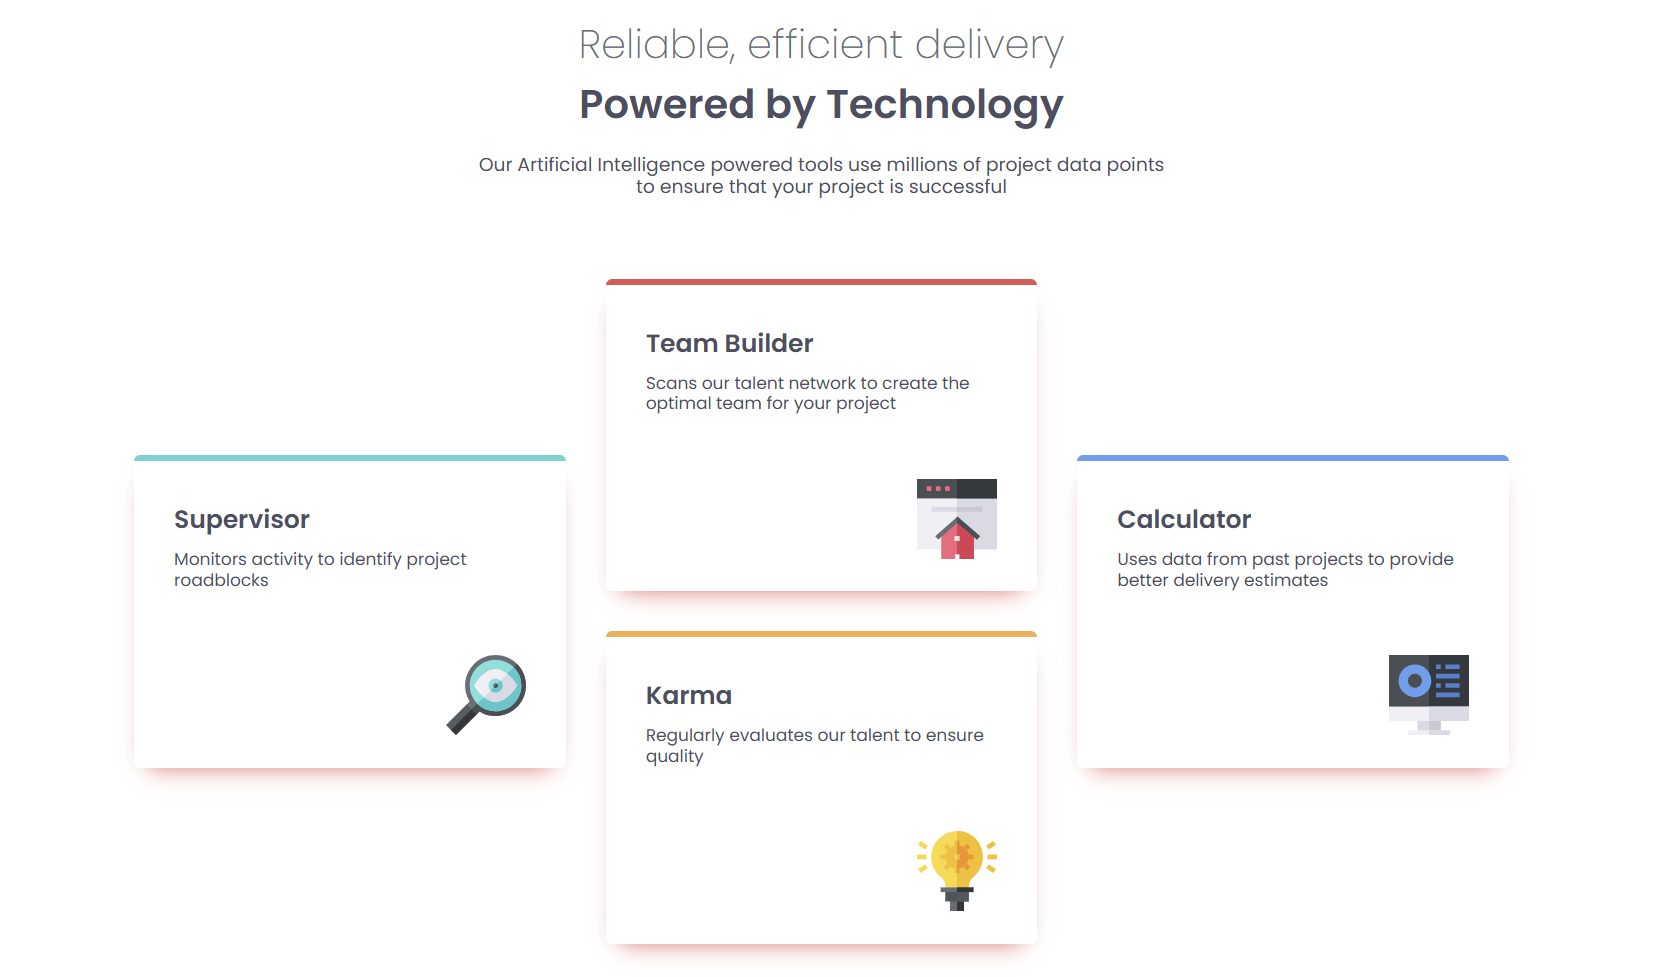
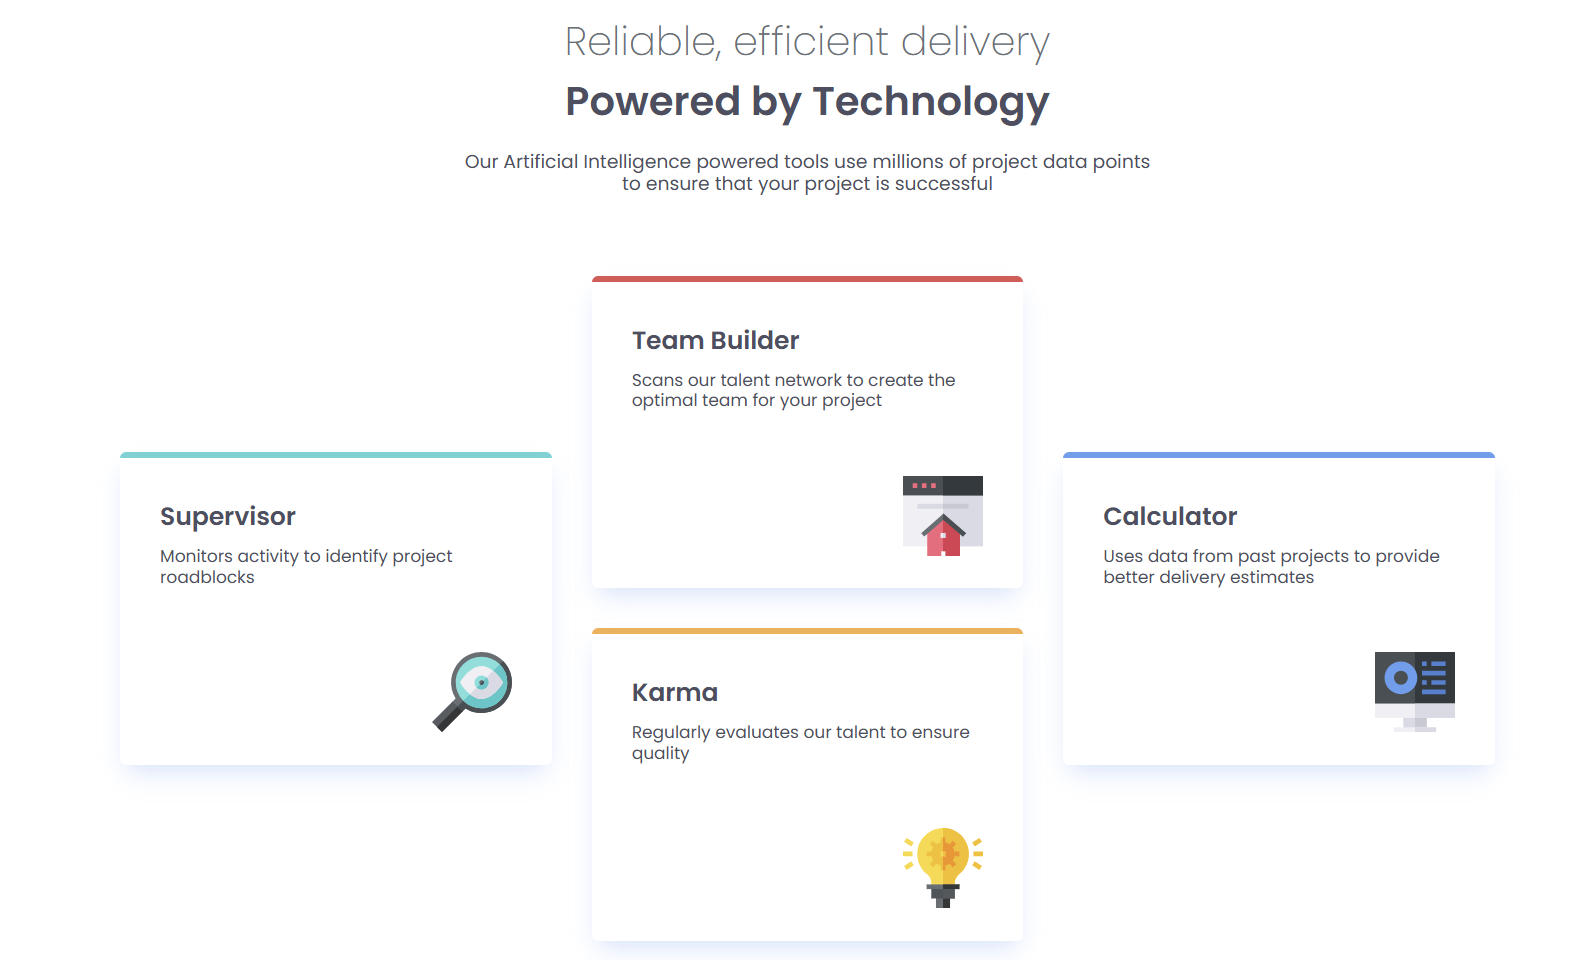
Organize code

diff --git a/styles.css b/styles.css
@@ -83,7 +83,7 @@ main{
   width: 100%; 
   height: 250px;
 
-  box-shadow: 0 10px 20px -12px var(--Red);
+  box-shadow: 0 10px 20px -5px hsla(212, 86%, 64%, 0.295);
   border-radius: 5px;
 
   display: flex; 